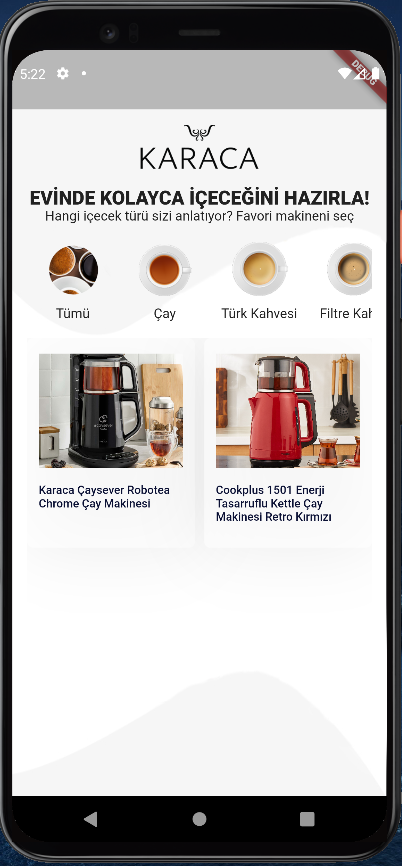
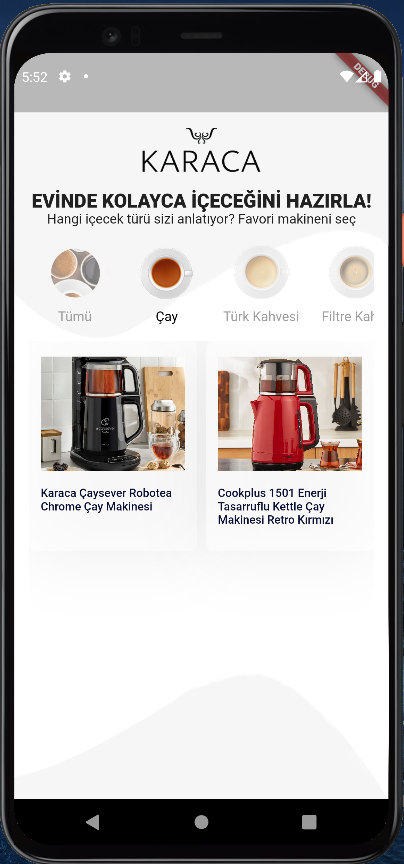
Category filter added

diff --git a/lib/widgets/categorybanner.dart b/lib/widgets/categorybanner.dart
@@ -1,6 +1,7 @@
 import 'package:flutter/material.dart';
 
 import '../models/category.dart';
+import '../screens/home.dart';
 
 class CategoryBanner extends StatelessWidget {
   final Category? category;
@@ -20,9 +21,16 @@ class CategoryBanner extends StatelessWidget {
             padding: EdgeInsets.symmetric(
               horizontal: 19,
             ),
-            child: Image.network(
-              category!.imageUrl!,
-              height: orientation == Orientation.landscape ? 40 : 60,
+            child: Opacity(
+              opacity: Home().getSelectedIndex() == 0
+                  ? 1
+                  : Home().getSelectedIndex() == category!.id!
+                      ? 1
+                      : 0.5,
+              child: Image.network(
+                category!.imageUrl!,
+                height: orientation == Orientation.landscape ? 40 : 60,
+              ),
             ),
           ),
           SizedBox(
@@ -30,7 +38,14 @@ class CategoryBanner extends StatelessWidget {
           ),
           Text(
             category!.title!,
-            style: TextStyle(fontSize: 14),
+            style: TextStyle(
+              fontSize: 14,
+              color: Home().getSelectedIndex() == 0
+                  ? Colors.black
+                  : Home().getSelectedIndex() == category!.id!
+                      ? Colors.black
+                      : Colors.grey,
+            ),
           )
         ],
       ),

diff --git a/lib/screens/home.dart b/lib/screens/home.dart
@@ -1,23 +1,22 @@
-import 'package:cloud_firestore/cloud_firestore.dart';
 import 'package:flutter/material.dart';
 import 'package:kahvesecim_marsflutter/connection/categoryconnection.dart';
 import 'package:kahvesecim_marsflutter/connection/productconnection.dart';
-import 'package:kahvesecim_marsflutter/models/category.dart';
-import 'package:kahvesecim_marsflutter/widgets/categorybanner.dart';
-
-import '../models/product.dart';
 import '../widgets/header.dart';
-import '../widgets/productbutton.dart';
 
 class Home extends StatefulWidget {
   @override
   State<StatefulWidget> createState() {
     return _Home();
   }
+
+  int getSelectedIndex() {
+    return selectedIndex;
+  }
 }
 
+int selectedIndex = 0;
+
 class _Home extends State<Home> {
-  int selectedIndex = 0;
   void setSelectedIndex(int si) {
     setState(() {
       selectedIndex = si;
@@ -26,14 +25,6 @@ class _Home extends State<Home> {
 
   @override
   Widget build(BuildContext context) {
-    var size = MediaQuery.of(context).size;
-
-    final double itemHeight = (size.height -
-            MediaQuery.of(context).padding.top -
-            MediaQuery.of(context).padding.bottom) *
-        0.3;
-    final double itemWidth = size.width / 2;
-
     return Container(
       decoration: new BoxDecoration(
         image: new DecorationImage(

diff --git a/lib/connection/productconnection.dart b/lib/connection/productconnection.dart
@@ -1,6 +1,5 @@
 import 'package:cloud_firestore/cloud_firestore.dart';
 import 'package:flutter/material.dart';
-import 'package:kahvesecim_marsflutter/screens/home.dart';
 import 'package:kahvesecim_marsflutter/widgets/productbutton.dart';
 
 import '../models/product.dart';

diff --git a/lib/widgets/productbutton.dart b/lib/widgets/productbutton.dart
@@ -1,5 +1,4 @@
 import 'package:flutter/material.dart';
-import 'package:kahvesecim_marsflutter/screens/home.dart';
 import 'package:kahvesecim_marsflutter/screens/productDetails.dart';
 
 import '../models/product.dart';
